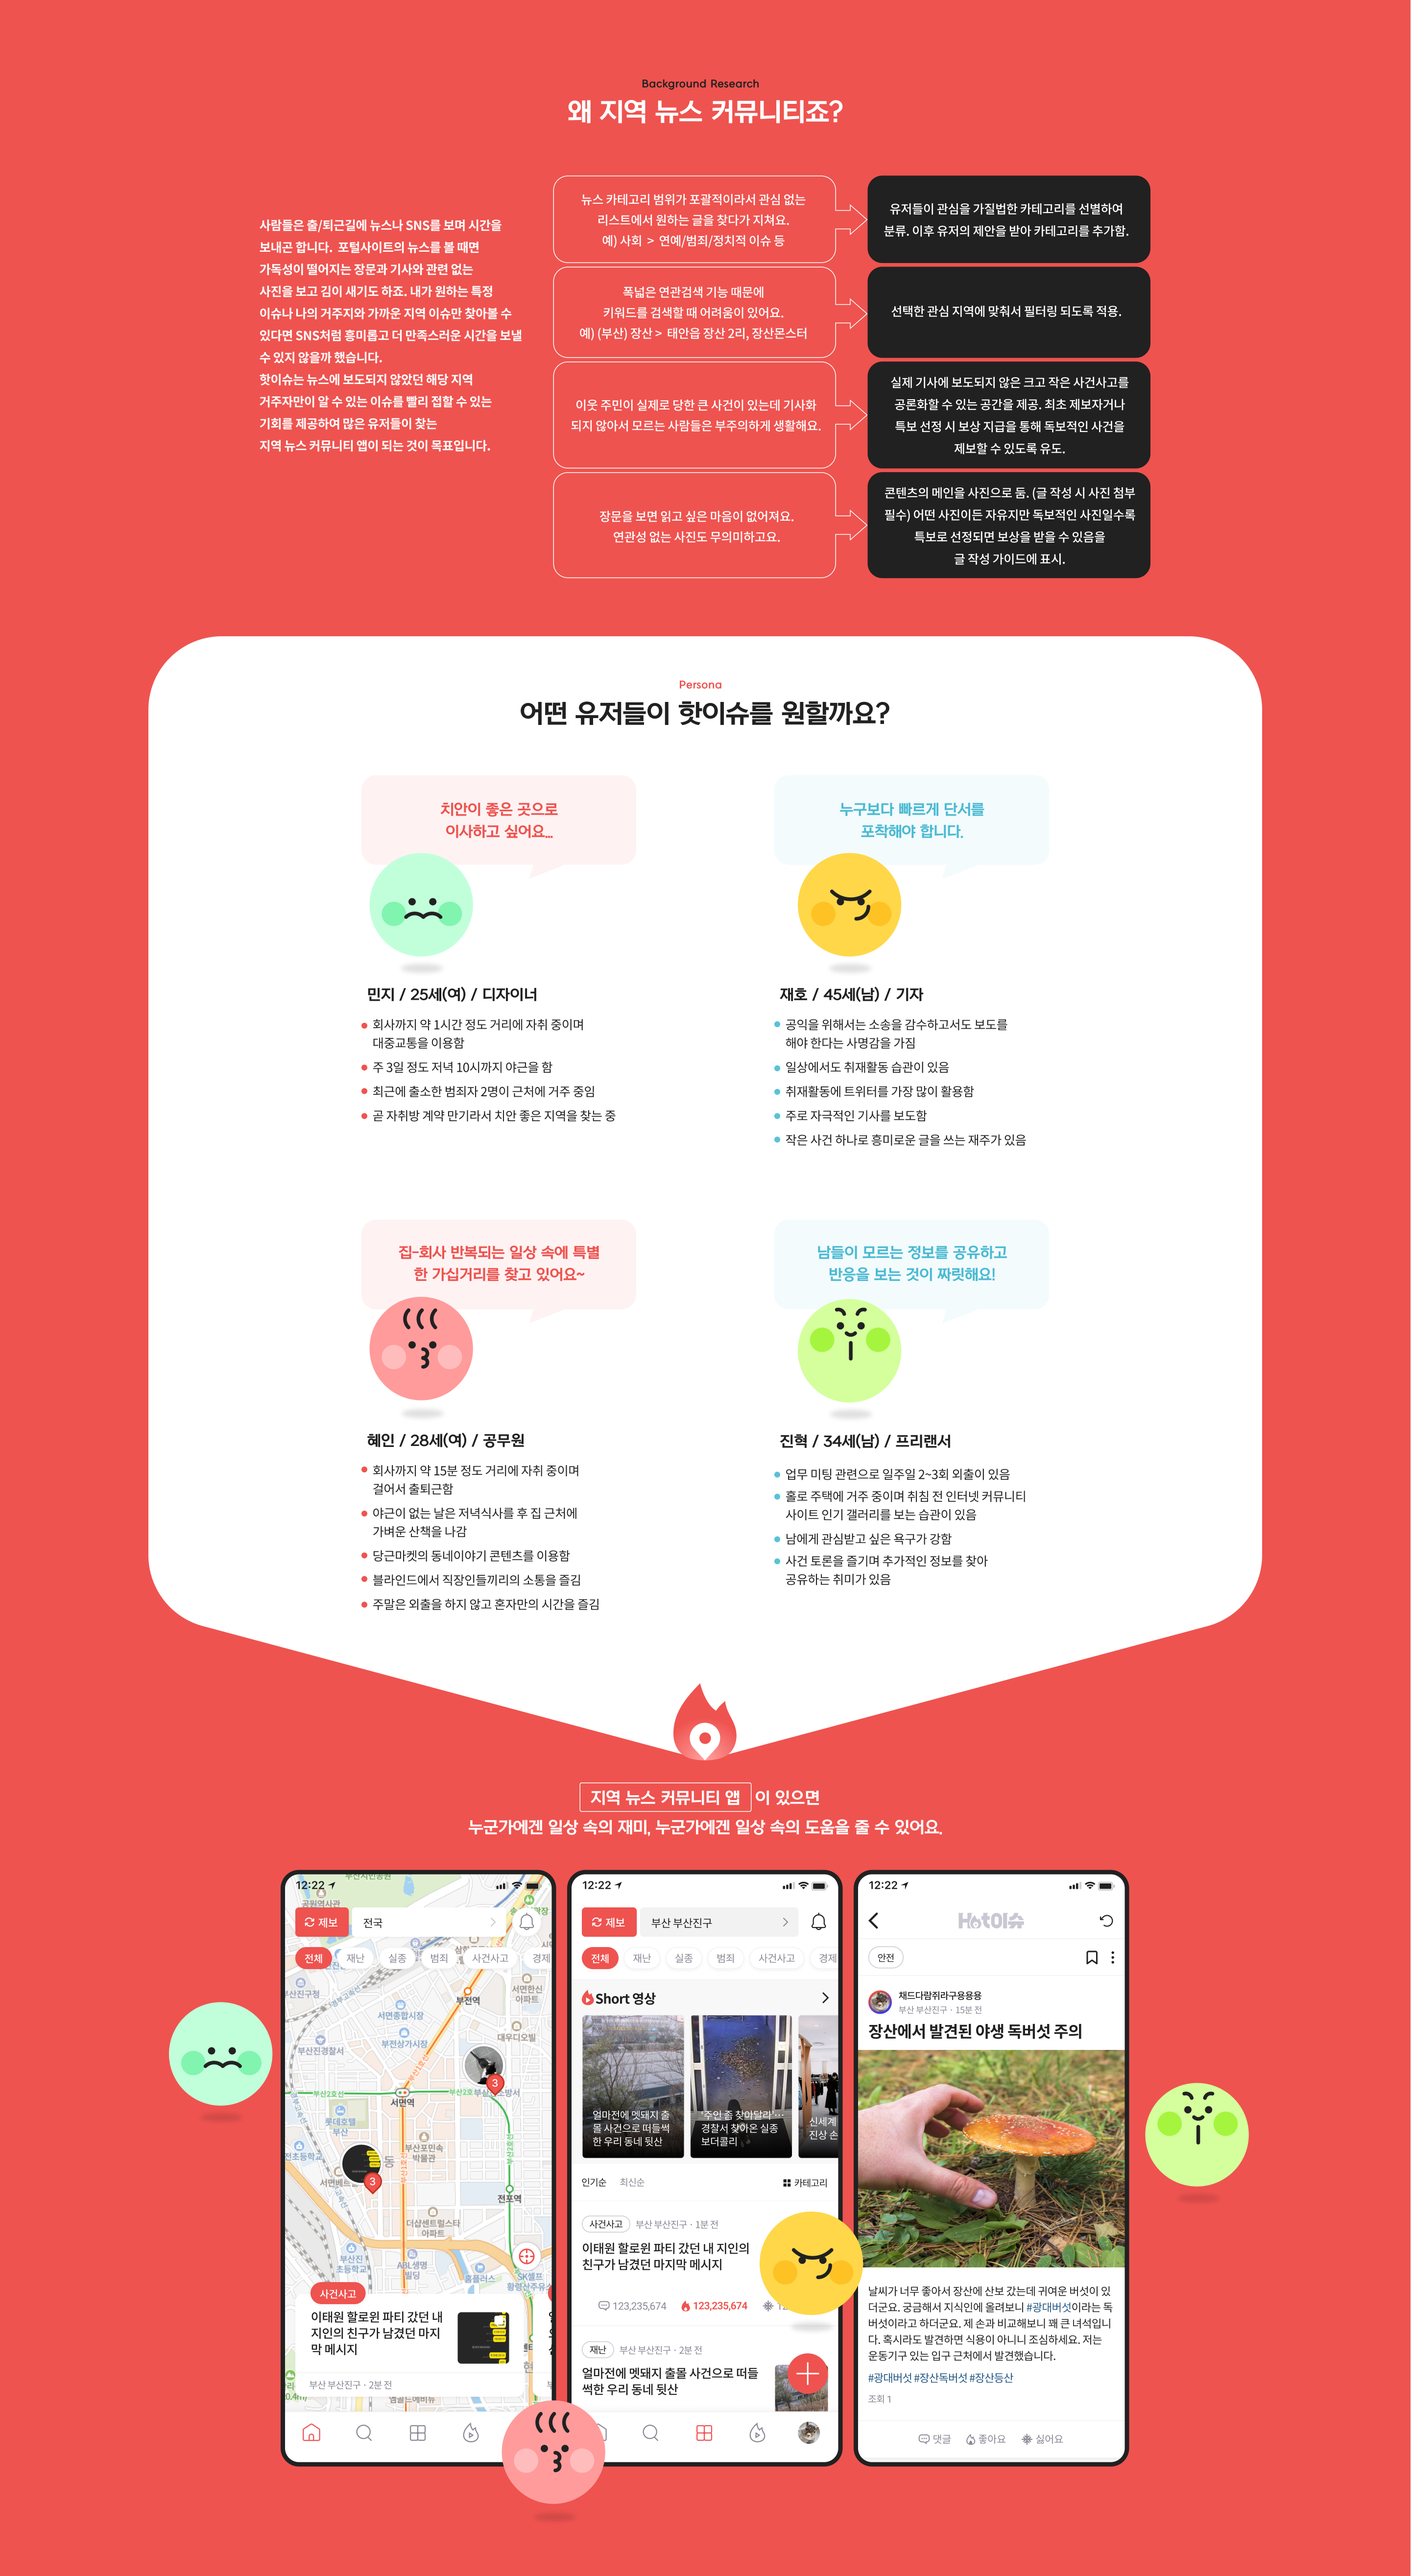
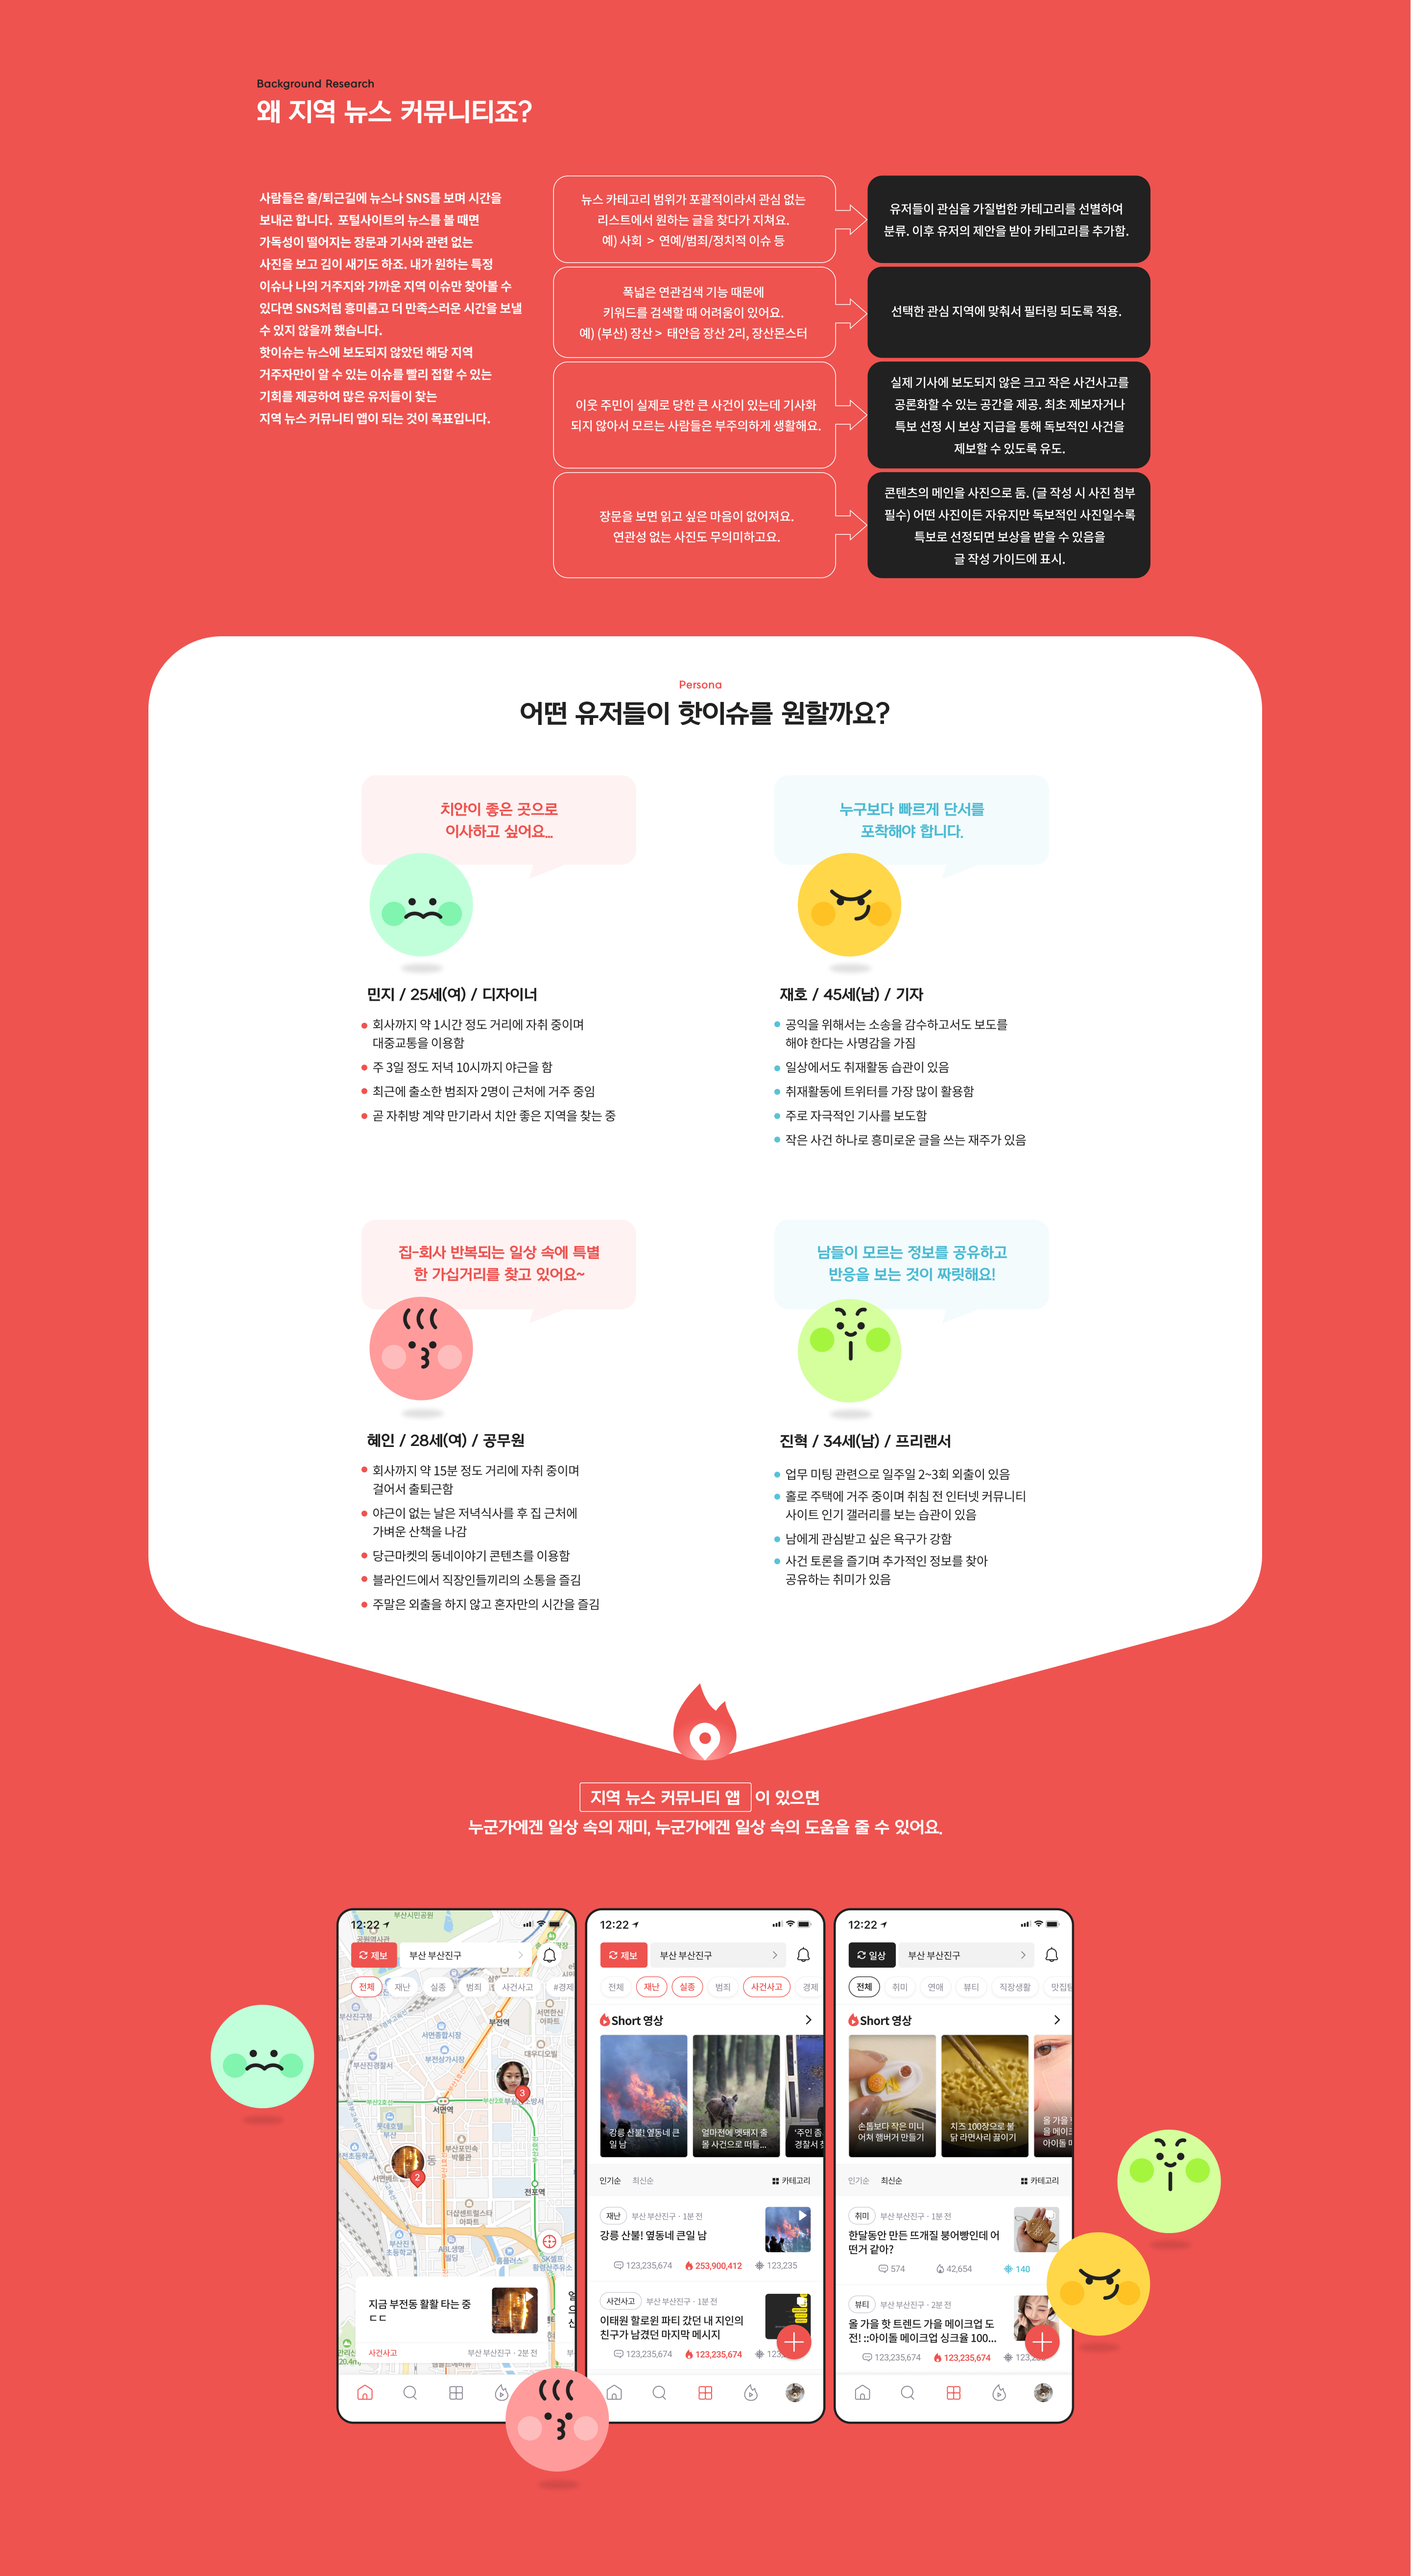
230425_Edit

Changed region(s): [[0.125, 0.7172, 0.9059, 0.9979], [0.1874, 0.0312, 0.3749, 0.1871], [0.4061, 0.0312, 0.5935, 0.0624]]

diff --git a/page/uiux_hotissue.html b/page/uiux_hotissue.html
@@ -91,42 +91,42 @@
         
         .ani_apng {
         position:absolute;
-        top: 35%;
+        top: 40%;
         left: 55%;
         width: 22%;
         }
         .ani_apng1 {
         position: absolute;
-        top: 9.6%;
+        top: 13%;
         left: 38.5%;
         transform: translate(-50%, -50%);
         width: 15%;
         }
         .ani_apng2 {
         position: absolute;
-        top: 9.5%;
+        top: 12.5%;
         left: 59%;
         transform: translate(-50%, -50%);
         width: 14%;
         }
         .ani_apng3 {
         position: absolute;
-        top: 9%;
+        top: 12%;
         left: 79.5%;
         transform: translate(-50%, -50%);
         width: 19%;
         }
         .ani_apng4 {
         position: absolute;
-        top: 50%;
-        left: 56%;
+        bottom: 4%;
+        right: 15%;
         transform: translate(-50%, -50%);
         width: 6.5%;
         }
         .ani_apng5 {
         position: absolute;
-        top: 50%;
-        left: 63%;
+        bottom: 3.2%;
+        right: 8%;
         transform: translate(-50%, -50%);
         width: 7%;
         }
@@ -427,7 +427,7 @@
         }
         
 
-       
+
         
         @media screen and (max-width: 768px) {
             .wrap {
@@ -581,8 +581,6 @@
                 </div>
                 <img src="../img/uiux/hotissue/p_hotissue_4.jpg">
             </div>
-            <img src="../img/uiux/hotissue/p_hotissue_5.jpg">
-            
             <div class="apngArea_2">
                 <div class="ani_apng4">
                     <img src="../img/uiux/hotissue/like.png">
@@ -592,9 +590,9 @@
                 </div>
                 <img src="../img/uiux/hotissue/p_hotissue_5-2.jpg">
             </div>
+
+            <img src="../img/uiux/hotissue/p_hotissue_5.jpg">
             <img src="../img/uiux/hotissue/p_hotissue_6.jpg">
-            <img src="../img/uiux/hotissue/p_hotissue_7.jpg">
-            <img src="../img/uiux/hotissue/p_hotissue_8.jpg">
         </div>
 
         <div class="back">
